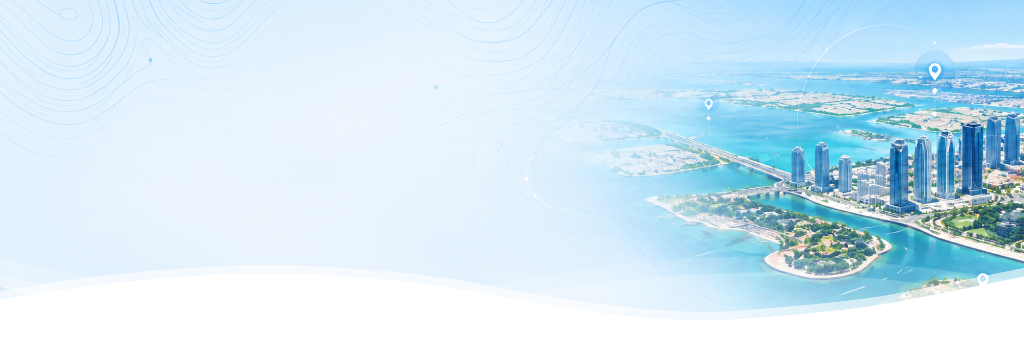
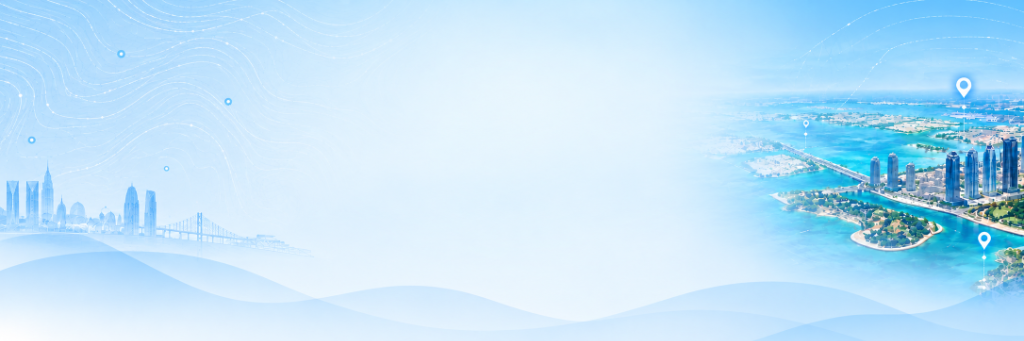
feat(help): update Help & Support hero background with latest skyline and suspension bridge artwork

diff --git a/Finial GeoVision/src/pages/HelpSupportPage.css b/Finial GeoVision/src/pages/HelpSupportPage.css
@@ -97,13 +97,12 @@
   width: 100%;
   height: 100%;
   object-fit: cover;
-  object-position: center right;
+  object-position: center;
   transition: opacity 0.3s ease, filter 0.3s ease;
 }
 
 [dir="rtl"] .help-hero-bg-img {
-  transform: scaleX(-1);
-  object-position: center left;
+  object-position: center;
 }
 
 .help-light .help-hero-bg-wrapper {
